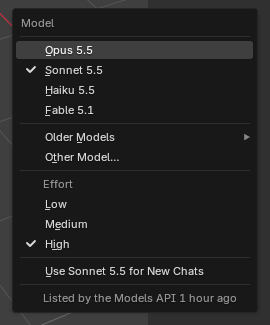
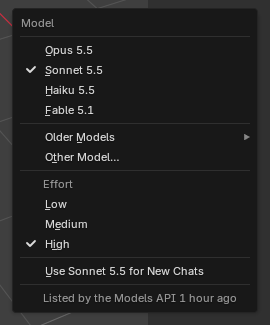
Shoot menus with no item hovered
Moving the pointer onto an empty part of a menu leaves its last hovered
item lit, so the model and turn menu shots still showed their first item
as hovered. The harness now also simulates a window deactivation, which
drops the highlight while the popup stays open. The screenshot checks say
so, and say the chat menu marks its current entry by the check mark only.

Changed region(s): [[0.0593, 0.1231, 0.9481, 0.1846]]

diff --git a/tests/screens/harness.py b/tests/screens/harness.py
@@ -378,13 +378,18 @@ class Run:
     def _popup_unhover(self):
         """The popup opened under the pointer, so its first item shows as
         hovered: moves the pointer into the popup's top left corner, where
-        nothing is drawn, so the popup stays open with no item hovered."""
+        nothing is drawn, so the popup stays open. A menu keeps its last
+        hovered item lit when the pointer moves onto nothing, so a simulated
+        window deactivation then lets go of it (Blender drops a button's
+        highlight when the window loses focus; the popup stays open)."""
         if time.monotonic() < self.wait_until:
             return TICK
         after = screenshot_window(self.work / "window-after.png")
         x0, _y0, _x1, y1 = change_bounds(self.before_popup, after, status=STATUS_BAR)
         win, _area, _main, _ui = view3d()
-        win.event_simulate(type="MOUSEMOVE", value="NOTHING", x=x0 + 12, y=y1 - 8)
+        x, y = x0 + 12, y1 - 8
+        win.event_simulate(type="MOUSEMOVE", value="NOTHING", x=x, y=y)
+        win.event_simulate(type="WINDOW_DEACTIVATE", value="NOTHING", x=x, y=y)
         redraw_all()
         self.state = "popup_shoot"
         self.wait_until = time.monotonic() + 0.5

diff --git a/docs/ui.md b/docs/ui.md
@@ -1485,10 +1485,10 @@ width and, for `conversation`, `markdown` and `long_session`, the wide variant t
 | `comparing` | 4.11; "Showing: <prompt>" without quotes; Swap / Keep This / Done as text, not cut; the compared bubble marked; no node id, nothing red |
 | `long_session` | 4.10; panel no taller than `conversation` + 8 rows |
 | `history_popover` | 13-turn tree, two branches: one indentation step per level, siblings at equal indentation, lines flat, each branch's first row marked ↳ (no disclosure triangles), branch points say "2 branches", titles whole including the current row, current row highlighted, one ⋯ per row |
-| `turn_menu` | the ⋯ menu opened on a turn, Edit & Resend first, then Go Back to This Turn |
-| `agent_popover` | §3.1; Agent and Model lines (no agent yet, so no Chats line); For This File with `Triangle Budget (default)` and `Render Size (default)`, their resets greyed; `Self-check Rounds`, `Palette`, `Bevel Style` and `Style Notes` without "(default)", their resets enabled; after a small gap, the three style fields each whole on their own line under its label, the labels at the fields' left edge; every reset on its field's line, all in one column; Start Agent and Preferences…; nothing red |
+| `turn_menu` | the ⋯ menu opened on a turn, Edit & Resend first, then Go Back to This Turn; no item hovered |
+| `agent_popover` | §3.1; Agent, Model and Effort lines and For This File starting in one column (no agent yet, so no Chats line); For This File with `Triangle Budget (default)` and `Render Size (default)`, their resets greyed; `Self-check Rounds`, `Palette`, `Bevel Style` and `Style Notes` without "(default)", their resets enabled; after a small gap, the three style fields each whole on their own line under its label, the labels at the fields' left edge; every reset on its field's line, all in one column; Start Agent and Preferences…; nothing red |
 | `developer` | Developer Extras on: Development panel shown; off (every other scenario): absent |
-| `chat_menu` | three chats, the second-newest current: New Chat first; Conversations; each entry's title whole, its dim `N turns · <age> · <size>` line; ✓ on the current entry (highlighted), 🗑 on the others; the footer total and three items; nothing red |
+| `chat_menu` | three chats, the second-newest current: New Chat first; Conversations; each entry's title whole, its dim `N turns · <age> · <size>` line; ✓ on the current entry (marked by its check mark only, not highlighted), 🗑 on the others; the footer total and three items; nothing red |
 | `chat_menu_many` | 25 chats of varied age and size: 20 entries then `Show 5 More`; long titles shortened with `…` at a word's end, the ✓/🗑 column aligned on every row; ages from `just now` to `over a year ago` |
 | `new_chat` | 4.12 after New Chat: header `New chat ▾` beside the agent icon, empty conversation, start row; nothing else |
 | `switched_chat` | 4.12 after switching to an older chat: its title in the header, its conversation, the dim "scene is as you left it" line once at the end, the scene unchanged |
@@ -1496,7 +1496,7 @@ width and, for `conversation`, `markdown` and `long_session`, the wide variant t
 | `open_elsewhere` | §3.11: one dim line at the top, `This file is open in another Blender; chats here won't merge with it.`, wrapped, not red |
 | `delete_confirm` | the confirmation of 🗑 on a chat: its title, turns and size, "leaves this file the next time you save" |
 | `delete_many` | the Delete Chats dialog on `Older Than a Month`, with the count and size line |
-| `model_menu` | the model menu over a chat on Sonnet 5.5: Opus 5.5, Sonnet 5.5 (✓), Haiku 5.5, Fable 5.1, then Older Models ▸ and Other Model…, `Use Sonnet 5.5 for New Chats`, the dim source line `Listed by the Models API 1 hour ago`; names whole, icons in one column |
+| `model_menu` | the model menu over a chat on Sonnet 5.5: Opus 5.5, Sonnet 5.5 (✓), Haiku 5.5, Fable 5.1, then Older Models ▸ and Other Model…, `Use Sonnet 5.5 for New Chats`, the dim source line `Listed by the Models API 1 hour ago`; names whole, icons in one column; no item hovered |
 | `hero` | the whole window at 1600×1000, no desktop around it: the crate with its lid and rope handles in matcap shading, no selection outlines; one stroke of each kind (add, carve, crease, a filled region, a note arrow) in its colour; the sidebar widened, in sketch mode, scrolled to its end: the last turn with its render, the sketch row on Note, `6 strokes · 2 views`, the prompt typed |
 | `model_menu_older` | the Older Models submenu with the chat on Opus 4.6: one column per family under its dim name, newest first, ✓ on Opus 4.6; no title or rule over the first column alone |
 

diff --git a/docs/progress.md b/docs/progress.md
@@ -392,9 +392,10 @@ shot in a GUI Blender without a person at the keyboard.
   has no setter), which also keeps real input out of the window. A scenario that returns a
   `Popup` is shot as a popup: the pointer is moved over the sidebar (simulated), the window
   is shot, the popover (`wm.call_panel`) or the menu operator is opened, the pointer is
-  moved into the popup's empty top left corner so the item it opened over does not show as
-  hovered, and the window is shot again and cropped to what changed. A menu keeps its last
-  hovered item lit, so `model_menu_older` still shows one.
+  moved into the popup's empty top left corner and a window deactivation is simulated, so no
+  item shows as hovered (a menu keeps its last hovered item lit when the pointer moves onto
+  nothing, and lets go of it when the window loses focus; the popup stays open), and the
+  window is shot again and cropped to what changed.
 - `tests/screens/scenarios.py`: 23 states (empty, start, prompt_typed, prompt_only_done,
   sketching, streaming, conversation, branched, branch_edit, asking, interrupted,
   error_turn, folded_failure, crashed, setup_needed, key_needed, comparing, manual_targets,
